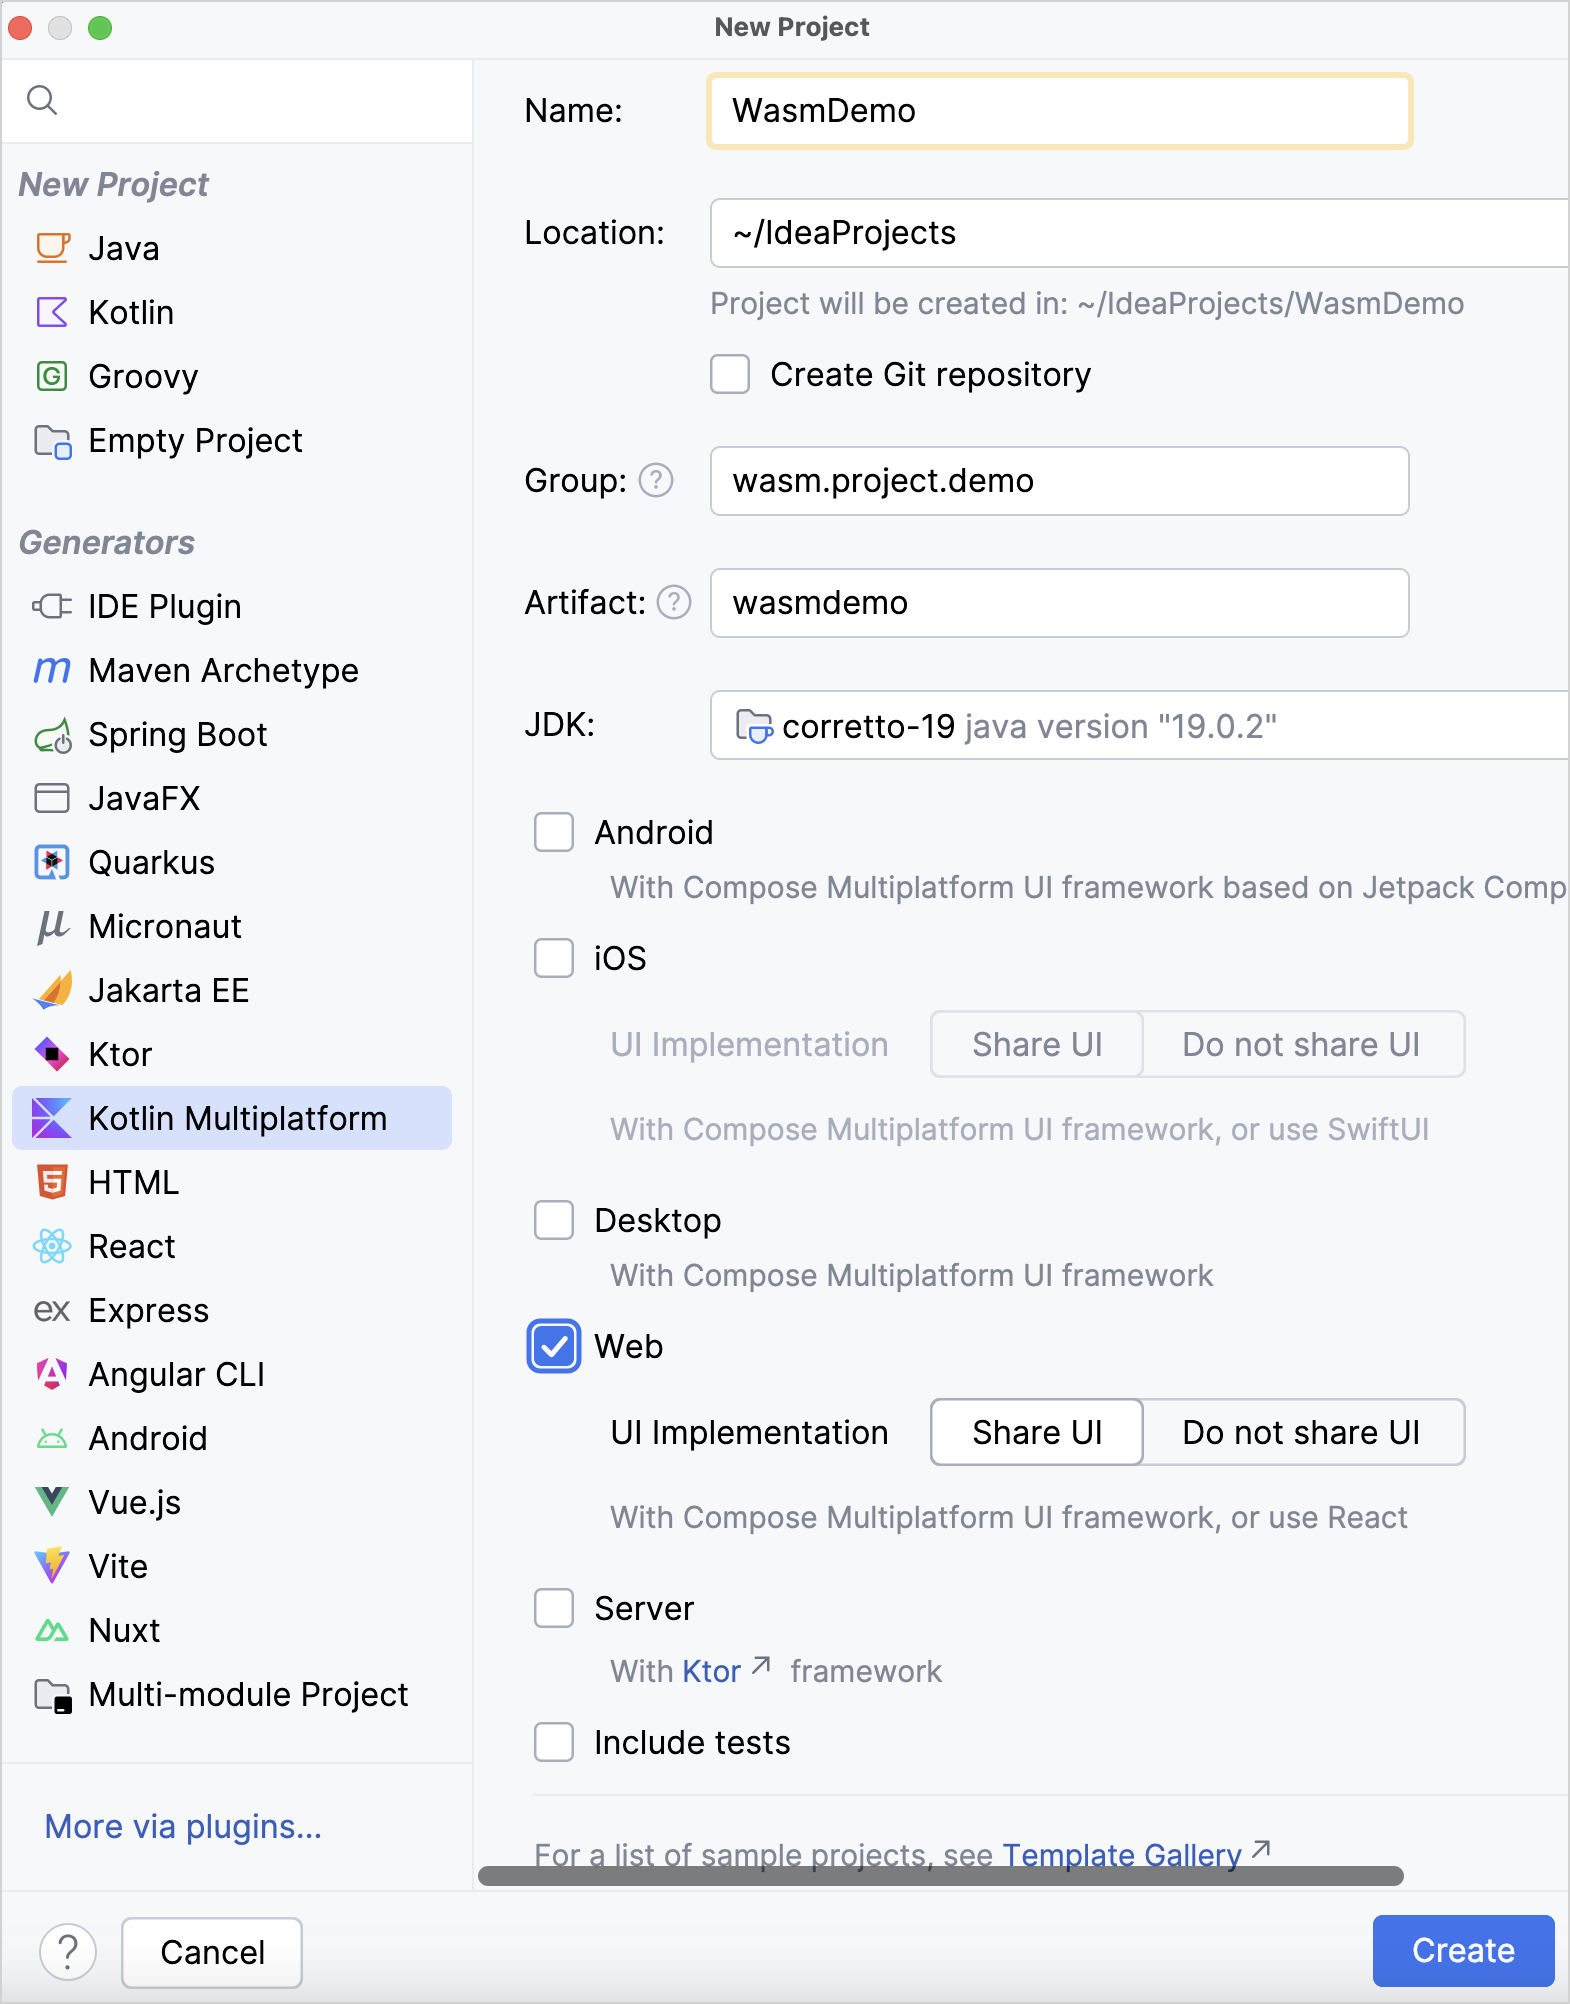
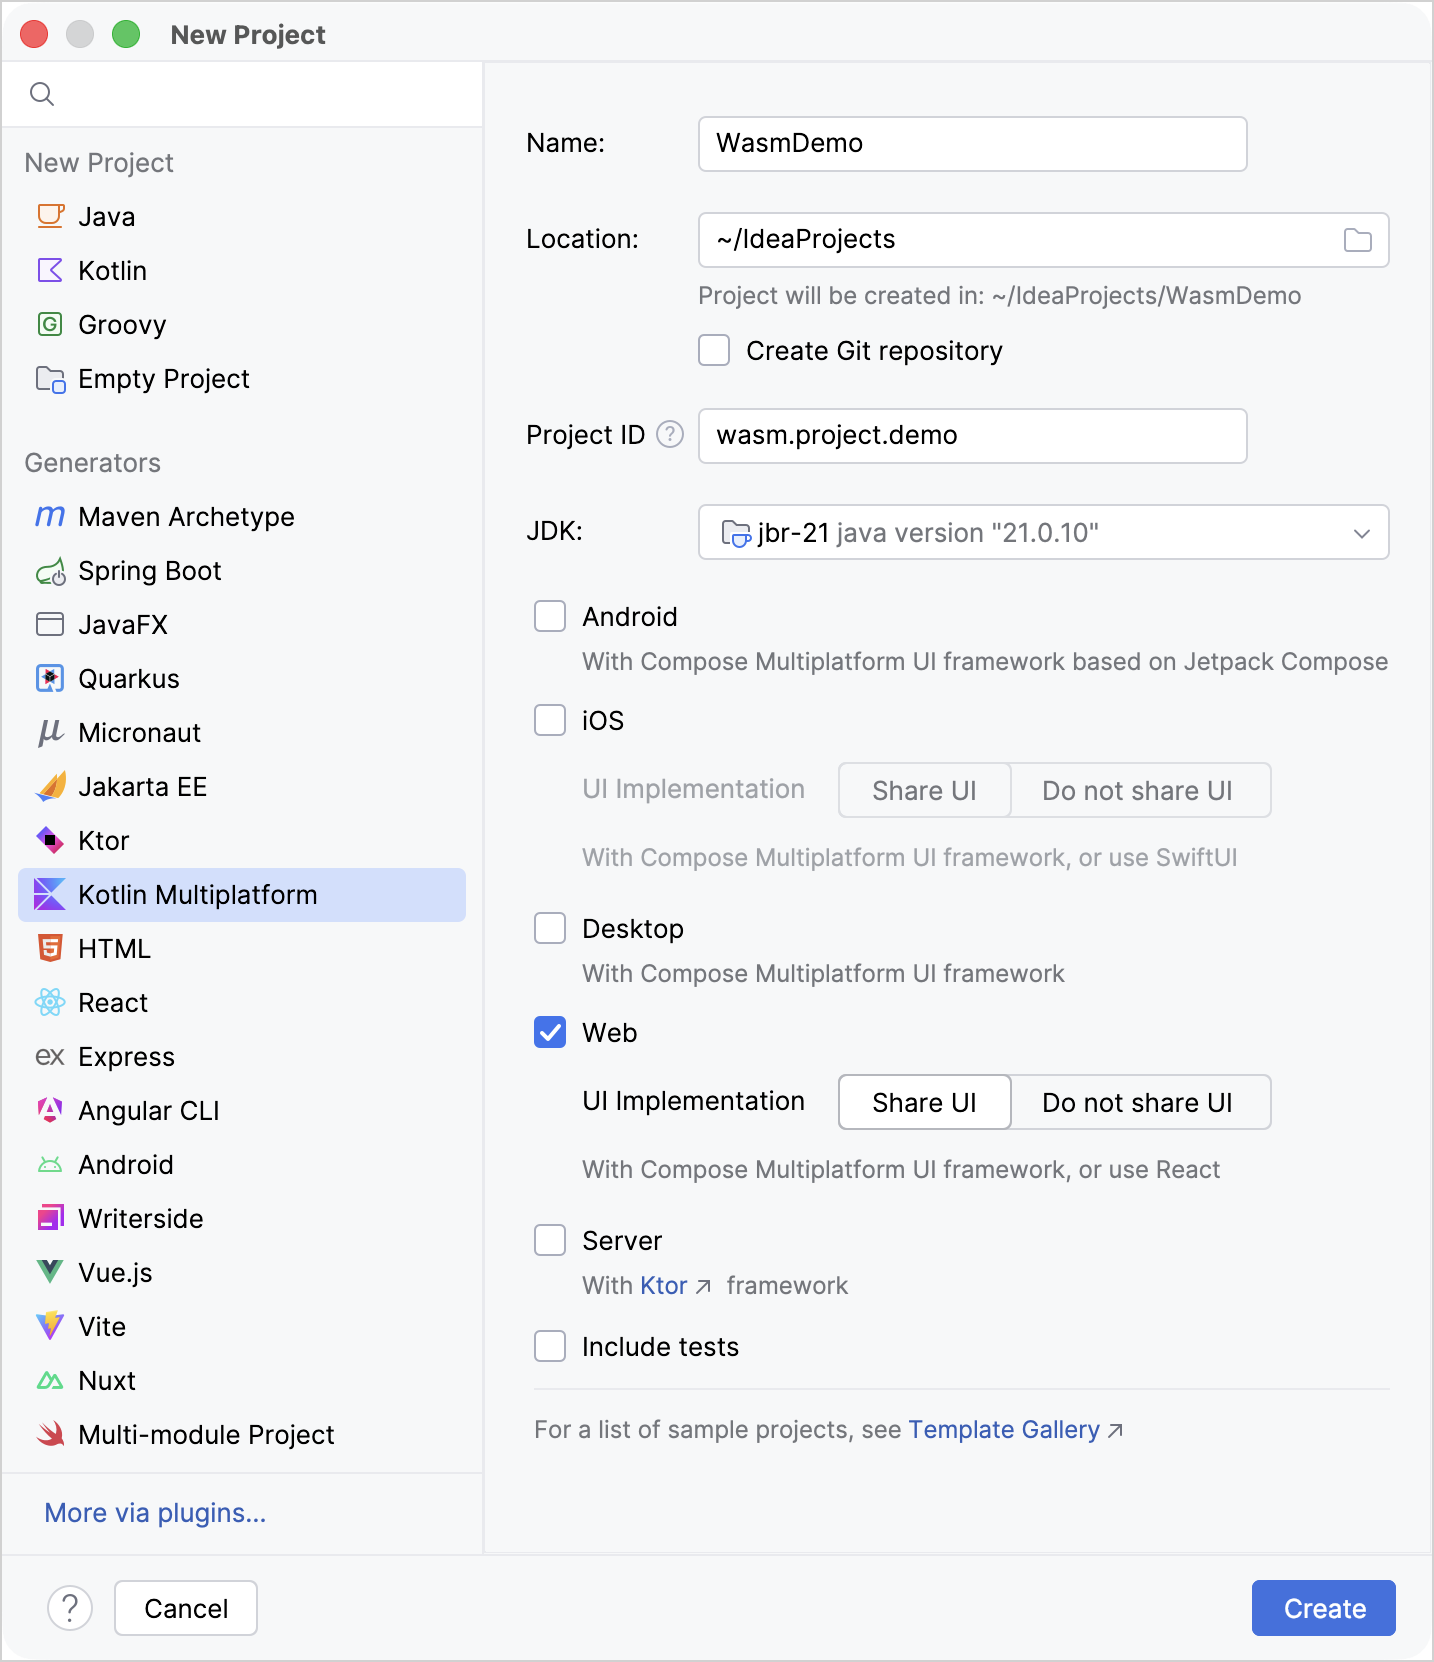
update: Wasm get started updated with KMP IDE plugin UI and default project structure

diff --git a/docs/topics/wasm/wasm-get-started.md b/docs/topics/wasm/wasm-get-started.md
@@ -19,9 +19,8 @@ app with [](wasm-overview.md) in IntelliJ IDEA and generate artifacts to publish
 
    * **Name:** WasmDemo
    * **Group:** wasm.project.demo
-   * **Artifact:** wasmdemo
 
-   > If you use the web wizard, specify "WasmDemo" as Project Name and "wasm.project.demo" as Project ID.
+   > If you use the web wizard, specify "WasmDemo" as **Project Name** and "wasm.project.demo" as **Project ID**.
    >
    {style="note"}
 
@@ -32,9 +31,9 @@ app with [](wasm-overview.md) in IntelliJ IDEA and generate artifacts to publish
 
 ## Run the application
 
-Once the project loads, select **composeApp [wasmJs]** in the list of run configurations and click **Run**.
+Once the project loads, select **webApp [wasmJs]** in the list of run configurations and click **Run**.
 
-![Run the Compose Multiplatform app on web](compose-run-web-black.png){width=300}
+![Run the Compose Multiplatform app on web](compose-run-web-light.png){width=300}
 
 The web application opens automatically in your browser. Alternatively, you can open the following URL in your browser when the run is finished:
 
@@ -74,7 +73,7 @@ Generate your project's artifacts to publish on a website:
     ./gradlew wasmJsBrowserDistribution
     ```
 
-Once the application task completes, you can find the generated artifacts in the `composeApp/build/dist/wasmJs/productionExecutable`
+Once the application task completes, you can find the generated artifacts in the `webApp/build/dist/wasmJs/productionExecutable`
 directory:
 
 ![Artifacts directory](wasm-composeapp-directory.png){width=400}